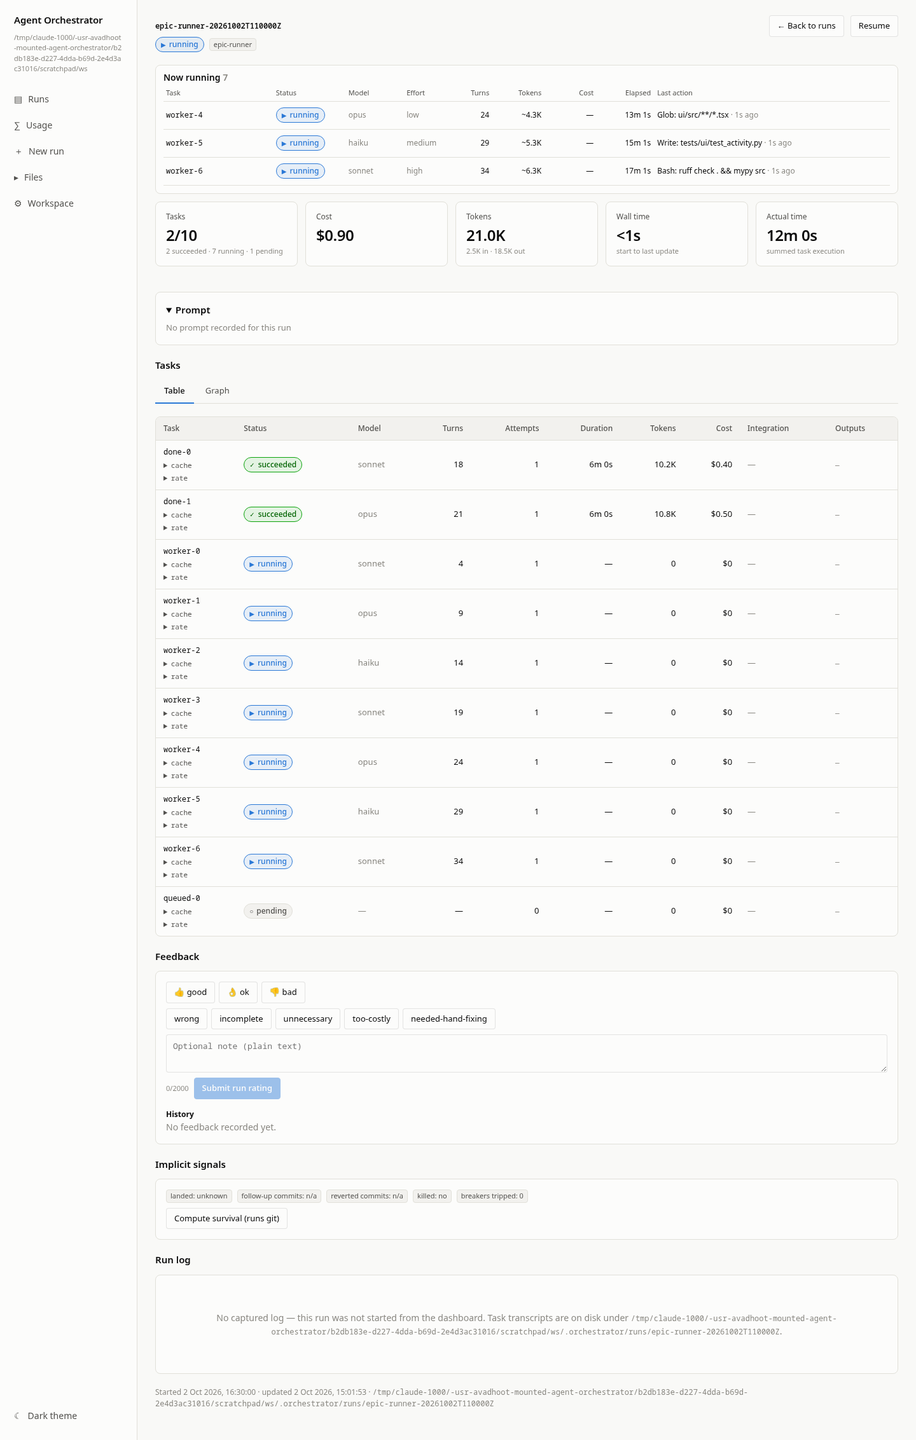
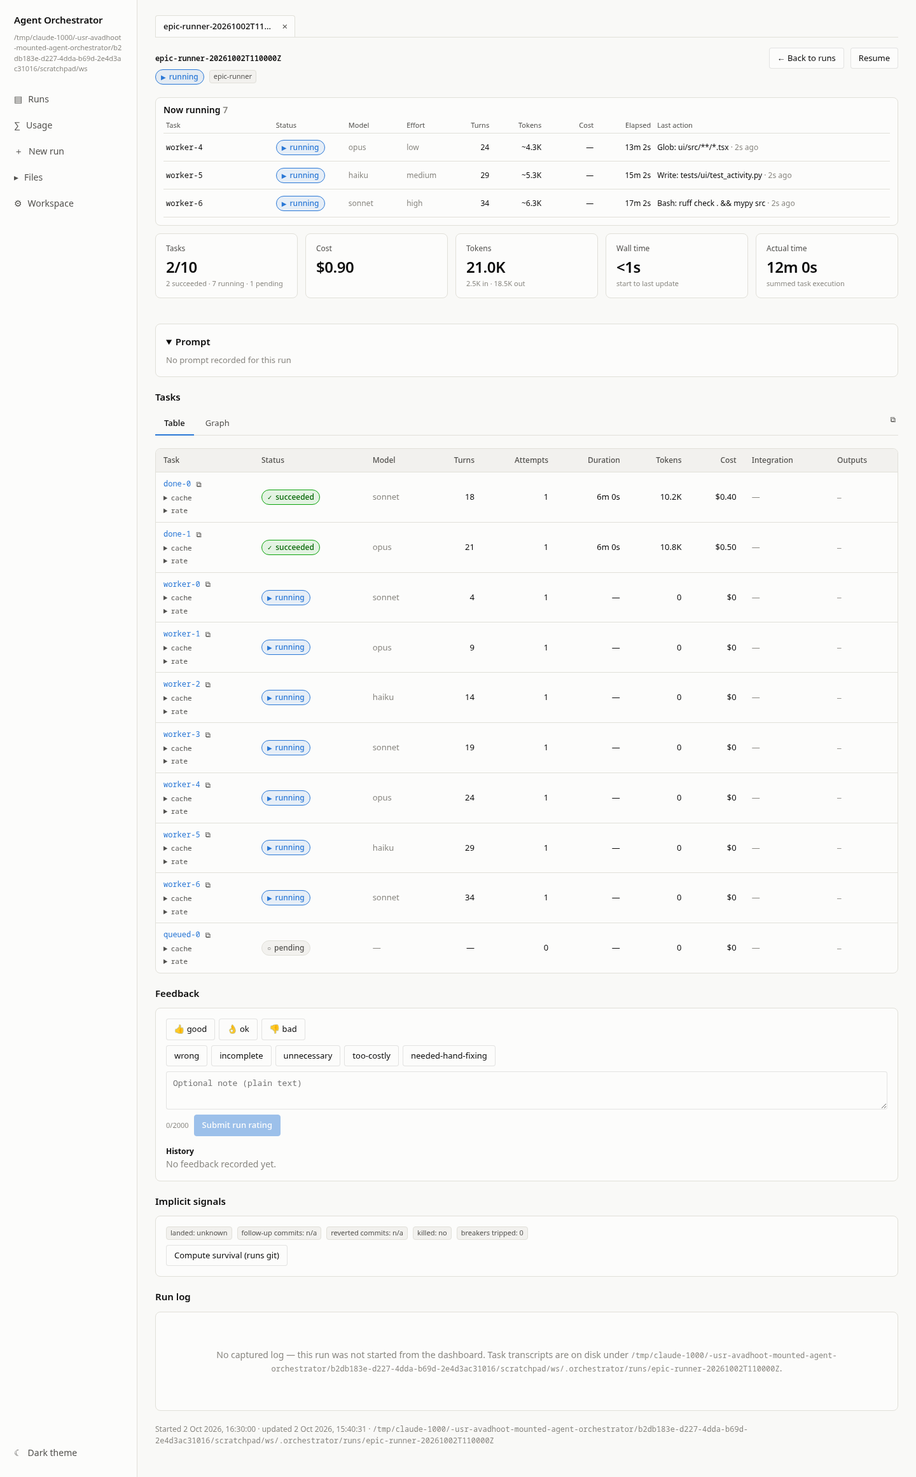
Close epic E-iafh2F: Phase 2 docs, tickets, evidence, learnings
Claude-Session: https://claude.ai/code/session_01WqsgPb8XQzYVwwHaP48rEW

diff --git a/scripts/helper/epics/E-iafh2F/shoot.py b/scripts/helper/epics/E-iafh2F/shoot.py
@@ -56,10 +56,10 @@ def serve(ws: Path, port: int) -> subprocess.Popen:
 def phase1(page, base: str, out: Path) -> dict:
     facts: dict = {}
     page.goto(base)
-    page.get_by_role("button", name="Runs").first.click()
+    page.get_by_role("button", name="Runs", exact=True).first.click()
     page.wait_for_selector("[data-testid=now-running-body]")
     page.screenshot(path=str(out / "runs-list-compact.png"), full_page=True)
-    page.get_by_role("button", name=RUN).click()
+    page.get_by_role("link", name=RUN).click()
     page.wait_for_selector("text=Now running")
     page.wait_for_selector("[data-testid=now-running-body] [role=listitem]")
     page.wait_for_timeout(500)
@@ -78,6 +78,65 @@ def phase1(page, base: str, out: Path) -> dict:
     return facts
 
 
+def tab_names(page) -> list[str]:
+    return page.get_by_role("tablist", name="Open tabs").get_by_role("tab").all_inner_texts()
+
+
+def phase2(browser, page, base: str, out: Path) -> dict:
+    facts: dict = {}
+    page.goto(base)
+    page.wait_for_selector("text=Total runs")
+    page.get_by_role("button", name=f"Open run {RUN} in new tab").click()
+    page.wait_for_selector("text=Now running")
+    page.get_by_role("button", name="Open task worker-0 in new tab").click()
+    page.wait_for_selector("text=Timing")
+    page.get_by_role("tab", name=RUN).click()
+    # ctrl-click a task link: background tab, active tab unchanged
+    page.get_by_role("link", name="worker-1", exact=True).first.click(modifiers=["Control"])
+    page.get_by_role("button", name="Files").click()
+    page.get_by_role("button", name="docs").click()
+    page.get_by_role("button", name="plan.md").click()
+    page.wait_for_selector("text=Staged file")
+    page.get_by_role("button", name="Open docs/plan.md in new tab").click()
+    page.get_by_role("button", name="Usage").click()
+    page.wait_for_timeout(600)
+    facts["tabs_after_open"] = tab_names(page)
+    facts["hash_active"] = page.evaluate("location.hash")
+    page.screenshot(path=str(out / "tabs-workspace.png"))
+    # reorder: move the Usage tab left twice with Alt+ArrowLeft
+    page.get_by_role("tab", name="Usage").focus()
+    page.keyboard.press("Alt+ArrowLeft")
+    page.keyboard.press("Alt+ArrowLeft")
+    page.wait_for_timeout(200)
+    facts["tabs_after_reorder"] = tab_names(page)
+    # reload restores tab set (localStorage) and active tab (hash)
+    page.reload()
+    page.wait_for_selector("[role=tablist]")
+    facts["tabs_after_reload"] = tab_names(page)
+    facts["active_after_reload"] = page.get_by_role("tab", selected=True).inner_text()
+    # a link opened in a REAL new browser tab / fresh profile restores from the hash alone
+    url = page.url
+    ctx = browser.new_context(viewport={"width": 1440, "height": 900})
+    fresh = ctx.new_page()
+    fresh.goto(base + "/#/task?run=" + RUN + "&id=worker-2")
+    fresh.wait_for_selector("text=Timing")
+    facts["fresh_browser_tab"] = {"url": fresh.url, "tabs": tab_names(fresh)}
+    fresh.screenshot(path=str(out / "tab-from-hash-new-browser-tab.png"))
+    fresh.goto(base + "/#/run?id=../../etc/passwd")
+    fresh.wait_for_selector("[role=tablist]")
+    facts["hostile_hash_tabs"] = tab_names(fresh)
+    ctx.close()
+    # inactive tabs make no requests
+    reqs: list[str] = []
+    page.on("request", lambda r: reqs.append(r.url))
+    page.get_by_role("tab", name="Usage").click()
+    page.wait_for_timeout(7500)
+    facts["polling_requests_while_runs_tab_inactive"] = [u for u in reqs if u.endswith("/api/runs")]
+    page.screenshot(path=str(out / "tabs-reordered-usage-active.png"))
+    facts["url"] = url
+    return facts
+
+
 def main() -> None:
     phase, ws, out = sys.argv[1], Path(sys.argv[2]), Path(sys.argv[3])
     out.mkdir(parents=True, exist_ok=True)
@@ -91,7 +150,7 @@ def main() -> None:
             errors: list[str] = []
             page.on("pageerror", lambda e: errors.append(str(e)))
             page.on("console", lambda m: errors.append(m.text) if m.type == "error" else None)
-            facts = phase1(page, base, out) if phase == "1" else {}
+            facts = phase1(page, base, out) if phase == "1" else phase2(browser, page, base, out)
             facts["console_errors"] = errors
             print(facts)
             browser.close()

diff --git a/docs-md/live-activity-and-tabs-hld.md b/docs-md/live-activity-and-tabs-hld.md
@@ -1,6 +1,6 @@
 # Live task activity and tabbed workspace — HLD/LLD (E-iafh2F)
 
-**Status:** In progress · **Date:** 2026-10-02 · **ADR:** [ADR-0018](adr/ADR-0018-live-activity-reader-and-tabbed-workspace.md)
+**Status:** Implemented (Phase 1 + Phase 2) · **Date:** 2026-10-02 · **ADR:** [ADR-0018](adr/ADR-0018-live-activity-reader-and-tabbed-workspace.md)
 **Epic:** [`meta/tickets/E-iafh2F-live-status-and-tabbed-workspace/`](../meta/tickets/E-iafh2F-live-status-and-tabbed-workspace/EPIC.md)
 **Builds on:** [ADR-0010](adr/ADR-0010-dashboard-architecture-and-general-instructions.md) ·
 [ADR-0011](adr/ADR-0011-untrusted-workspace-content-rendering.md) ·
@@ -142,28 +142,38 @@ HTTP integration (`TestClient`), e2e via real `ao ui` server on a fixture worksp
 
 ---
 
-## Phase 2 — Tabbed workspace
+## Phase 2 — Tabbed workspace (implemented)
 
 ### 2.1 Decision
 
-No router library. `ui/src/tabs/` holds a small pure model + reducer; `App.tsx` renders a tab bar
-above the main pane. `Tab = { id, kind, params, title }`, `kind ∈ runs | run | task | graph | file |
-usage | new | settings` (closed allowlist).
+No router library. `ui/src/tabs/` holds a pure model + reducer (`model.ts`), guarded storage
+(`storage.ts`), React contexts (`context.tsx`), the tab strip (`TabBar.tsx`), links
+(`TabLink.tsx`) and the per-kind views (`TabView.tsx`, `TaskTab.tsx`, `GraphTab.tsx`);
+`App.tsx` renders the strip above the main pane. `Tab = { id, kind, params, title }`,
+`kind ∈ runs | run | task | graph | file | usage | new | settings` (closed allowlist).
 
 | Concern | Decision |
 |---|---|
-| State | `useReducer` over `{tabs, activeId}`; pure reducer (open/close/activate/reorder/retitle) |
-| Persistence | `localStorage` key `ao-tabs`, every access try/catch guarded; page renders without it |
-| URL | Active tab encoded in the **hash**: `#/<kind>?<k=v&…>` (e.g. `#/run?id=r1`, `#/file?root=workspace&path=a/b.md`). Hash is client-only: the backend SPA fallback already serves `/` and any deep path with `index.html`, so no server change (verified by test). |
-| Open in new browser tab | Real `<a href="#/…" target="_blank">` — a fresh page load parses the hash → opens that tab. Middle/ctrl/cmd-click open an in-app tab (`openTab`) unless the modifier is the browser's native new-tab gesture on the anchor; explicit "open in new tab" buttons call `openTab` |
-| Mounting | All opened tabs stay mounted (state kept); inactive ones are `hidden` and get `active=false` → `usePolling` pauses |
-| Trust | Hash + localStorage are untrusted: `parseTab()` checks kind against the allowlist, each param against a per-kind schema (string, length cap, charset), drops unknown keys/tabs, caps tab count (`MAX_TABS`). Params are used only through the existing API client (server re-validates paths per ADR-0011) |
-| Components | `RunDetail({runId})`, `FileBrowser({initialPath,initialRoot})`, `RunGraph`, `TaskDetailPanel` take ids/paths as props with minimal edits; navigation callbacks (`onOpen*`) replace `setOpenRun` |
-| Out of scope | Split-pane / side-by-side tabs (future work). Drag-and-drop uses native HTML5 DnD with keyboard-accessible Move left/right |
+| State | `useReducer(tabsReducer)` over `{tabs, activeId}`; actions `open` / `navigate` / `activate` / `close` / `move`; never tab-less (closing the last tab recreates `Runs`) |
+| Params | per-kind key allowlist: `run{id}` · `task{run,id}` · `graph{run}` · `file{path?,root?}` · others none. Run ids `^[A-Za-z0-9][A-Za-z0-9._:@+-]*$` ≤200; task ids/paths: no control/bidi chars, ≤200/≤1024; root `^[A-Za-z0-9._@+-]{1,64}$` |
+| Persistence | `localStorage["ao-tabs"] = {v:1, activeId, tabs:[{id,kind,params}]}`, every access try/catch guarded (private window, blocked, quota, corrupt JSON → default `Runs` tab). Titles are not stored |
+| URL | Active tab encoded in the **hash** `#/<kind>?k=v…` (URLSearchParams-encoded), written with `history.replaceState` (no history spam, no `hashchange` loop). A `hashchange` (pasted/edited link) opens or focuses the tab. On load the hash tab is opened+focused on top of the restored set. A hash never reaches the server; the SPA fallback already serves `/` and any deep path with `index.html` (asserted by `tests/ui/test_activity_e2e.py::test_hash_deep_links_are_served_by_the_spa_fallback`), so **no backend change** |
+| Click semantics (one rule set) | links are real `<a href="#/…">`. **Plain click** navigates *within the current tab* (reuse an identical tab, else replace the active tab's content; the old "open a run replaces the pane" behaviour, now per tab). **Ctrl/Cmd-click or middle-click** opens a new *in-app* tab in the background. The explicit **"open in new tab" button** (⧉, on run rows, task rows, graph-node panel, output file paths, the file viewer, the Graph toggle) opens and activates a new in-app tab. **Shift-click / context menu / copy-link** stay native: the hash URL opens a real new browser tab that restores from the hash alone |
+| Mounting | every opened tab stays mounted (`hidden` attribute when inactive; component state survives); `TabActiveContext` → `usePolling` stops all requests for inactive tabs (verified: 0 `/api/runs` requests in 7.5 s while inactive). Max `MAX_TABS`=12; opening past it evicts the oldest *inactive* tab |
+| Trust | hash + localStorage are untrusted: `kind` allowlist, key allowlist (inherited/`__proto__` keys never read), bounded strings, a supplied-but-invalid value (even optional) rejects the whole tab (a hostile `path` must not degrade into "browse root"), **title is always recomputed** (never taken from input), tab ids re-validated/regenerated, duplicate ids/singletons dropped, count capped. Params reach only the typed API client (server re-validates, ADR-0011). Links with invalid targets render as plain text |
+| Components | `RunDetail({runId,onBack})` unchanged; `FileBrowser({initialPath?,initialRoot?})`; `TaskDetailPanel` gains optional `runId`; `RunGraph` passes it. `TaskTab` reuses `TaskDetailPanel`; `GraphTab` reuses the lazy `RunGraph` chunk |
+| Reorder | native HTML5 drag-and-drop **and** keyboard (Alt+←/→ on a focused tab); roving tabindex arrows, Delete/middle-click/× close |
+| Known limits | two browser windows share one `localStorage` key: last writer wins (no cross-window sync). Split-pane / side-by-side tabs are future work. `TaskDetailPanel` now focuses with `preventScroll` so opening a task tab does not scroll its header away |
 
-### 2.2 Test plan
+### 2.2 Test plan (all landed)
 
-vitest: reducer, `parseTab`/hash codec (hostile hash, unknown kind, oversize, `__proto__`),
-persistence (localStorage throws), tab bar (close, reorder, middle-click, ctrl-click, new-tab
-action), inactive-tab polling paused. pytest: SPA fallback serves index for `/` + deep path with
-hash-only needs. Visual: screenshots in `output/E-iafh2F-live-status-and-tabbed-workspace/`.
+vitest: `tabs-model.test.ts` (64: allowlists, hostile hashes/ids/paths, codec round-trip,
+persistence repair, reducer incl. eviction/close/move, storage guards), `tabs-app.test.tsx` (13,
+through `<App/>`: persist, hash restore on load / `hashchange` / hostile hash, sidebar, plain /
+ctrl / middle / explicit new-tab on run rows, task rows, file paths, close, reorder by Alt+Arrow
+and drag-drop, corrupt + throwing localStorage, inactive tabs mounted but not polling),
+`tabs-components.test.tsx` (TabLink fallbacks, TabBar roving focus, Graph/Task tab errors).
+Visual + real-browser: `scripts/helper/epics/E-iafh2F/shoot.py 2` drives system Chrome against a
+real `ao ui` (reload restores tabs, a fresh browser context opening the hash URL restores that
+tab, hostile hash ignored, zero polling while inactive); screenshots in
+`output/E-iafh2F-live-status-and-tabbed-workspace/`.

diff --git a/meta/tickets/E-iafh2F-live-status-and-tabbed-workspace/EPIC.md b/meta/tickets/E-iafh2F-live-status-and-tabbed-workspace/EPIC.md
@@ -6,7 +6,7 @@
 - Owner: dev-epic
 - Created: 2026-10-02
 - Last Updated: 2026-10-02
-- Status: In Progress
+- Status: Done
 
 ## Summary
 - Goal: Phase 1 shows live turns/tokens/last-action/stuck hint for running tasks; Phase 2 adds a tab bar (persisted, hash-addressable) to the dashboard.
@@ -33,11 +33,11 @@
 - [x] `T-LYf6DJ-activity-endpoint` — Phase 1: Activity endpoint + additive payload fields
 - [x] `T-j6dTdO-now-running-ui` — Phase 1: Now-running box, list compact variant, Model/Turns columns, usePolling
 - [x] `T-ySND8C-phase1-verify` — Phase 1: Phase 1 gates: tests, e2e, screenshots with 5+ running tasks
-- [ ] `T-f0YWSy-tab-model-and-persistence` — Phase 2: Tab model, reducer, hash codec, localStorage persistence, validation
-- [ ] `T-WQjrEt-tab-shell-and-new-tab-actions` — Phase 2: Tab bar UI, reorder/close, open-in-new-tab actions
-- [ ] `T-mee0lL-component-props-refactor` — Phase 2: RunDetail/FileBrowser/RunGraph/TaskDetailPanel take ids/paths as props
-- [ ] `T-mJWSkm-phase2-verify` — Phase 2: Phase 2 gates: tests, SPA-fallback check, screenshots
-- [ ] `T-6UNaea-docs-and-closeout` — Phase 2: Docs (HLD, ui/README), bundle rebuild, closeout
+- [x] `T-f0YWSy-tab-model-and-persistence` — Phase 2: Tab model, reducer, hash codec, localStorage persistence, validation
+- [x] `T-WQjrEt-tab-shell-and-new-tab-actions` — Phase 2: Tab bar UI, reorder/close, open-in-new-tab actions
+- [x] `T-mee0lL-component-props-refactor` — Phase 2: RunDetail/FileBrowser/RunGraph/TaskDetailPanel take ids/paths as props
+- [x] `T-mJWSkm-phase2-verify` — Phase 2: Phase 2 gates: tests, SPA-fallback check, screenshots
+- [x] `T-6UNaea-docs-and-closeout` — Phase 2: Docs (HLD, ui/README), bundle rebuild, closeout
 
 ## Risks and Dependencies
 - Transcript counts best-effort under huge files (approximate flag). Cost is a floor.
@@ -51,3 +51,5 @@
 - By: dev-epic · Role: manager · Date: 2026-10-02 · Comment: Epic opened; phases delivered in order.
 - By: dev-epic · Role: reviewer · Date: 2026-10-02 · Comment: Early gate (reviewer) outcome: sound direction; MUST-FIX items (verify accounting against real transcripts, define attempt/cycle token scope, capture-dir resolution rules, tail bounds) were all addressed in HLD §1.3-1.4 and code; architect pass not run separately (design authored to ADR-0017 conventions; reviewer covered design + trust model). Phase 2 SHOULDs (title never taken from hash, rel=noopener, concrete MAX_TABS, single click semantics) carry into Phase 2 HLD.
 - By: dev-epic · Role: manager · Date: 2026-10-02 · Comment: Phase 1 DONE (4/4). Evidence in STATUS.md.
+- By: dev-epic · Role: tester · Date: 2026-10-02 · Comment: Late gate: independent tester pass over the real `ao ui` server + system Chrome; one failure traced to a stale verification script (not product) and fixed; final re-runs PASS.
+- By: dev-epic · Role: manager · Date: 2026-10-02 · Comment: Phase 2 DONE (5/5). Epic DONE. Open items: cross-window localStorage last-writer-wins; split-pane future work; live cost needs a price table (not derivable).

diff --git a/meta/learnings.md b/meta/learnings.md
@@ -1174,3 +1174,34 @@ By: agent
 Role: agent
 Date: 2026-09-28
 ---
+
+---
+Learning-ID: LRN-20261002-stream-json-output-tokens-are-first-chunk
+Learning: In claude `--output-format stream-json` transcripts, each `assistant` event's
+  `message.usage.output_tokens` is a first-chunk value (about 1% of the final total); only the
+  terminal `result` event carries the real usage. Input tokens per message are right. Live token
+  numbers must therefore be labelled estimates (chars/4 of model text + tool input, plus the
+  `system/thinking_tokens` `estimated_tokens_delta` events landed at 61-87% of final over 60 real
+  attempts). Turns: count distinct non-sidechain `message.id`, not assistant events (one event per
+  content block), and expect ~70-90% of the final `num_turns`.
+Context: Measured while building `E-iafh2F` live activity against real transcripts in
+  `ao-runner-ai-models`; fixture `tests/fixtures/transcript_stream_real_shape.jsonl` pins the shape.
+  The earlier committed fixture `transcript_activity_breakdown.jsonl` has no `message.id`/`usage`,
+  so designing against it alone would have been wrong.
+By: dev-epic
+Role: manager
+Date: 2026-10-02
+---
+
+---
+Learning-ID: LRN-20261002-unclosed-css-rule-nests-later-rules
+Learning: An unclosed `{` in `ui/src/styles.css` does not fail the Vite build: modern CSS nesting
+  silently scopes every following rule under the open selector, so later styles quietly stop
+  applying (and new rules appended at EOF inherit that prefix). When appended styles "do nothing",
+  grep the built CSS for a selector that picked up an unexpected parent prefix.
+Context: `.task-detail-outputs {` lost its `}` in commit 72db75f and swallowed the run-prompt CSS;
+  found and closed in `E-iafh2F`.
+By: dev-epic
+Role: manager
+Date: 2026-10-02
+---

diff --git a/README.md b/README.md
@@ -305,6 +305,18 @@ ao ui --port 9000 --workspace /path/to/repo --open
   parent/children/dependency links. Live runs refresh in place. Runs from before this feature
   still render, with a banner explaining which data is missing. See
   [`docs-md/run-graph-canvas-hld.md`](docs-md/run-graph-canvas-hld.md).
+- **Live task activity** — a fixed three-row **Now running** box tops every run page (and a
+  compact one sits under each live run in the list): per running task the model, effort, turns,
+  live tokens (`~` = estimate, a lower bound until the task settles), cost of finished attempts,
+  elapsed time, the last tool call, and an *idle* chip after 5 minutes without transcript output.
+  More than three running tasks scroll inside the same box; it never grows or collapses. Polling
+  pauses while the page (or workspace tab) is hidden. See
+  [`docs-md/live-activity-and-tabs-hld.md`](docs-md/live-activity-and-tabs-hld.md).
+- **Tabs** — the dashboard is a tabbed workspace: open runs, tasks, graphs and files side by side
+  as tabs (closable, drag or Alt+←/→ to reorder). Plain click navigates the current tab,
+  Ctrl/Cmd/middle-click or the ⧉ button opens a new tab. The tab set persists in the browser and
+  the active tab is in the URL hash (`#/run?id=…`), so a link restores it, including in a new
+  browser tab.
 - **Run control** — resume an interrupted run, cancel a running one, delete old runs.
 - **Workspace** — the effective [general instructions](#general-instructions), with a flag
   showing whether each path actually resolves.

diff --git a/meta/tickets/E-iafh2F-live-status-and-tabbed-workspace/STATUS.md b/meta/tickets/E-iafh2F-live-status-and-tabbed-workspace/STATUS.md
@@ -2,17 +2,17 @@
 
 - ID: `E-iafh2F-live-status-and-tabbed-workspace`
 - Updated At: 2026-10-02
-- State: In Progress
+- State: Done
 - Owner: dev-epic
 
 ## This update
-- By: dev-epic · Role: manager · Date: 2026-10-02 · Comment: Phase 1 complete (early gate run, late-gate evidence below).
+- By: dev-epic · Role: manager · Date: 2026-10-02 · Comment: Phase 1 and Phase 2 complete (early gate + late gate run, evidence below).
 
 ## Rollup
-- Tasks: 4/9 Done (Phase 1: 4/4 Done, Phase 2: 0/5)
+- Tasks: 9/9 Done (Phase 1: 4/4, Phase 2: 5/5)
 
 ## Evidence
-- Phase 1: pytest -q 4969 passed / 8 skipped; ui coverage 95%; vitest 269 passed; ruff/mypy(src, excluding pre-existing _version.py)/typecheck/build clean. Screenshots: output/E-iafh2F-live-status-and-tabbed-workspace/. See task STATUS files.
+- Final: pytest -q 4969 passed / 8 skipped; ui coverage 95%; vitest 353 passed (Phase 1 gate: 269); ruff/mypy(src, excluding pre-existing _version.py)/typecheck/build clean. Screenshots: output/E-iafh2F-live-status-and-tabbed-workspace/. See task STATUS files.
 
 ## Next actions
-1. Commit Phase 1. 2. Phase 2 (tabs).
+1. None. Open follow-ups: cross-window tab sync, split-pane view, live cost via price table.

diff --git a/meta/tickets/E-iafh2F-live-status-and-tabbed-workspace/T-mJWSkm-phase2-verify/STATUS.md b/meta/tickets/E-iafh2F-live-status-and-tabbed-workspace/T-mJWSkm-phase2-verify/STATUS.md
@@ -2,14 +2,14 @@
 
 - ID: `T-mJWSkm-phase2-verify`
 - Updated At: 2026-10-02
-- State: In Progress
+- State: Done
 - Owner: dev-epic
 
 ## This update
-- Opened.
+- By: dev-epic · Role: manager · Date: 2026-10-02 · Comment: Done.
 
 ## Evidence
-- (pending)
+- pytest -q 4969 passed / 8 skipped, ui coverage (pytest --cov=agent_orchestrator.ui) 95% (2388 stmts, 113 miss) vs 93.9% baseline; vitest 353 passed (31 files); npm typecheck clean; ruff check/format clean on src tests scripts; mypy src only pre-existing _version.py errors; build rebuilt. SPA fallback serves /, /run, /deep/path (tests/ui/test_activity_e2e.py). Independent tester run: pytest 98/98, endpoint + traversal + SPA checks PASS; its shoot.py phase-1 FAIL was a stale script (selected the run row by role=button, but the run id is now a link) - fixed, re-run PASS (box 132px, 7 rows, scrollHeight 308, 0 toggles, 0 console errors; phase 2 facts above). Screenshots in output/E-iafh2F-live-status-and-tabbed-workspace/.
 
 ## Next actions
-1. Implement.
+1. None (Phase 2 shipped).

diff --git a/meta/tickets/E-iafh2F-live-status-and-tabbed-workspace/T-WQjrEt-tab-shell-and-new-tab-actions/STATUS.md b/meta/tickets/E-iafh2F-live-status-and-tabbed-workspace/T-WQjrEt-tab-shell-and-new-tab-actions/STATUS.md
@@ -2,14 +2,14 @@
 
 - ID: `T-WQjrEt-tab-shell-and-new-tab-actions`
 - Updated At: 2026-10-02
-- State: In Progress
+- State: Done
 - Owner: dev-epic
 
 ## This update
-- Opened.
+- By: dev-epic · Role: manager · Date: 2026-10-02 · Comment: Done.
 
 ## Evidence
-- (pending)
+- ui/src/App.tsx, tabs/TabBar.tsx, TabLink.tsx, context.tsx; ui/src/test/tabs-app.test.tsx (13) + tabs-components.test.tsx (7): persist+hash on load, sidebar open/focus, plain/ctrl/middle/explicit new tab on run rows, task rows -> task tab, output path -> file viewer, close (x/middle/Delete), reorder (Alt+Arrow + drag-drop), corrupt/throwing localStorage, hash restore/hashchange/hostile hash, inactive tabs mounted but not polling. Real Chrome: reload restores tabs+active, fresh browser context opening a hash URL restores that tab, hostile hash ignored, 0 /api/runs requests in 7.5s while inactive.
 
 ## Next actions
-1. Implement.
+1. None (Phase 2 shipped).

diff --git a/meta/tickets/E-iafh2F-live-status-and-tabbed-workspace/T-f0YWSy-tab-model-and-persistence/STATUS.md b/meta/tickets/E-iafh2F-live-status-and-tabbed-workspace/T-f0YWSy-tab-model-and-persistence/STATUS.md
@@ -2,14 +2,14 @@
 
 - ID: `T-f0YWSy-tab-model-and-persistence`
 - Updated At: 2026-10-02
-- State: In Progress
+- State: Done
 - Owner: dev-epic
 
 ## This update
-- Opened.
+- By: dev-epic · Role: manager · Date: 2026-10-02 · Comment: Done.
 
 ## Evidence
-- (pending)
+- ui/src/tabs/model.ts, storage.ts; ui/src/test/tabs-model.test.ts (64 tests: kind allowlist incl. __proto__/constructor, param allowlists, traversal/control/bidi/oversize rejection, hash codec round-trip + 14 hostile hashes, persistence repair, reducer open/navigate/close/move/evict, throwing localStorage). Self-found defect fixed: an invalid optional file path was dropped (turning a hostile link into 'browse root'); now rejects the whole tab.
 
 ## Next actions
-1. Implement.
+1. None (Phase 2 shipped).

diff --git a/meta/tickets/E-iafh2F-live-status-and-tabbed-workspace/T-mee0lL-component-props-refactor/STATUS.md b/meta/tickets/E-iafh2F-live-status-and-tabbed-workspace/T-mee0lL-component-props-refactor/STATUS.md
@@ -2,14 +2,14 @@
 
 - ID: `T-mee0lL-component-props-refactor`
 - Updated At: 2026-10-02
-- State: In Progress
+- State: Done
 - Owner: dev-epic
 
 ## This update
-- Opened.
+- By: dev-epic · Role: manager · Date: 2026-10-02 · Comment: Done.
 
 ## Evidence
-- (pending)
+- FileBrowser({initialPath?,initialRoot?}), TaskDetailPanel optional runId (+ open-in-tab button, output paths as links, focus preventScroll), RunGraph passes runId, RunsList/RunDetail use TabLink/OpenInNewTabButton, usePolling gated by TabActiveContext; RunDetail/RunsList public props unchanged; all 269 pre-existing vitest tests still pass unmodified (except the Model/Turns header assertion from Phase 1).
 
 ## Next actions
-1. Implement.
+1. None (Phase 2 shipped).

diff --git a/meta/tickets/E-iafh2F-live-status-and-tabbed-workspace/T-6UNaea-docs-and-closeout/STATUS.md b/meta/tickets/E-iafh2F-live-status-and-tabbed-workspace/T-6UNaea-docs-and-closeout/STATUS.md
@@ -2,14 +2,14 @@
 
 - ID: `T-6UNaea-docs-and-closeout`
 - Updated At: 2026-10-02
-- State: In Progress
+- State: Done
 - Owner: dev-epic
 
 ## This update
-- Opened.
+- By: dev-epic · Role: manager · Date: 2026-10-02 · Comment: Done.
 
 ## Evidence
-- (pending)
+- docs-md/live-activity-and-tabs-hld.md (Phase 2 section, accounting findings), ADR-0018, README dashboard bullets, ui/README.md layout, meta/learnings.md (2 entries), tickets synced.
 
 ## Next actions
-1. Implement.
+1. None (Phase 2 shipped).

diff --git a/meta/tickets/E-iafh2F-live-status-and-tabbed-workspace/T-6UNaea-docs-and-closeout/TASK.md b/meta/tickets/E-iafh2F-live-status-and-tabbed-workspace/T-6UNaea-docs-and-closeout/TASK.md
@@ -6,7 +6,7 @@
 - Owner: dev-epic
 - Created: 2026-10-02
 - Last Updated: 2026-10-02
-- Status: In Progress
+- Status: Done
 - Estimate: < 3 days
 
 ## Requirements Mapping
